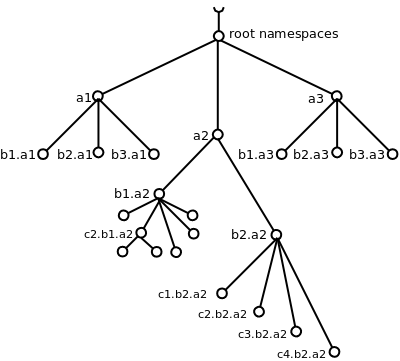
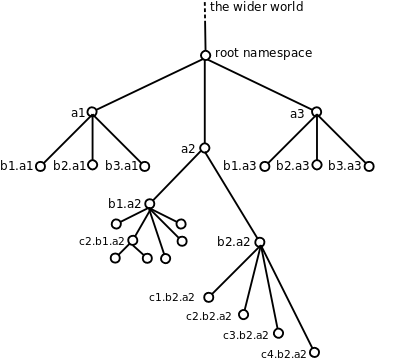
Diagrams added

diff --git a/index.html b/index.html
@@ -383,7 +383,7 @@ where both have the same <em>namespace name</em> at the start of the string but 
 
 <p>The following diagram illustrates the recursive <em>namespace</em> structure.</p>
 
-<img src="img/nesting_4a.png" class="align-left-middle" width="700" />
+<img src="img/nesting_4a.png" class="align-left-middle" width="600" />
 
 <p>Here the <em>namespaces</em> are labelled (untypically) in way convenient for identifying the depth of nesting from a <em>root namespace</em>.</p>
 
@@ -393,8 +393,24 @@ where both have the same <em>namespace name</em> at the start of the string but 
 
 <p>And so on.</p>
 
+<p>This can be represented more compactly as a tree ...</p>
+
+<img src="img/nesting_4a_as_tree.png" class="align-left-middle" width="400" />
 
 <p style="clear:both"></p>
+
+<p> ... making it easier to visualize the recursive nesting of <em>registry namespaces</em>.</p>
+
+<img src="img/nesting_trees_1.png" class="align-left-middle" width="701" />
+
+
+
+<p style="clear:both"></p>
+
+<p style="clear:both"></p>
+
+<p style="clear:both"></p>
+
 
 <hr size="1">
 
